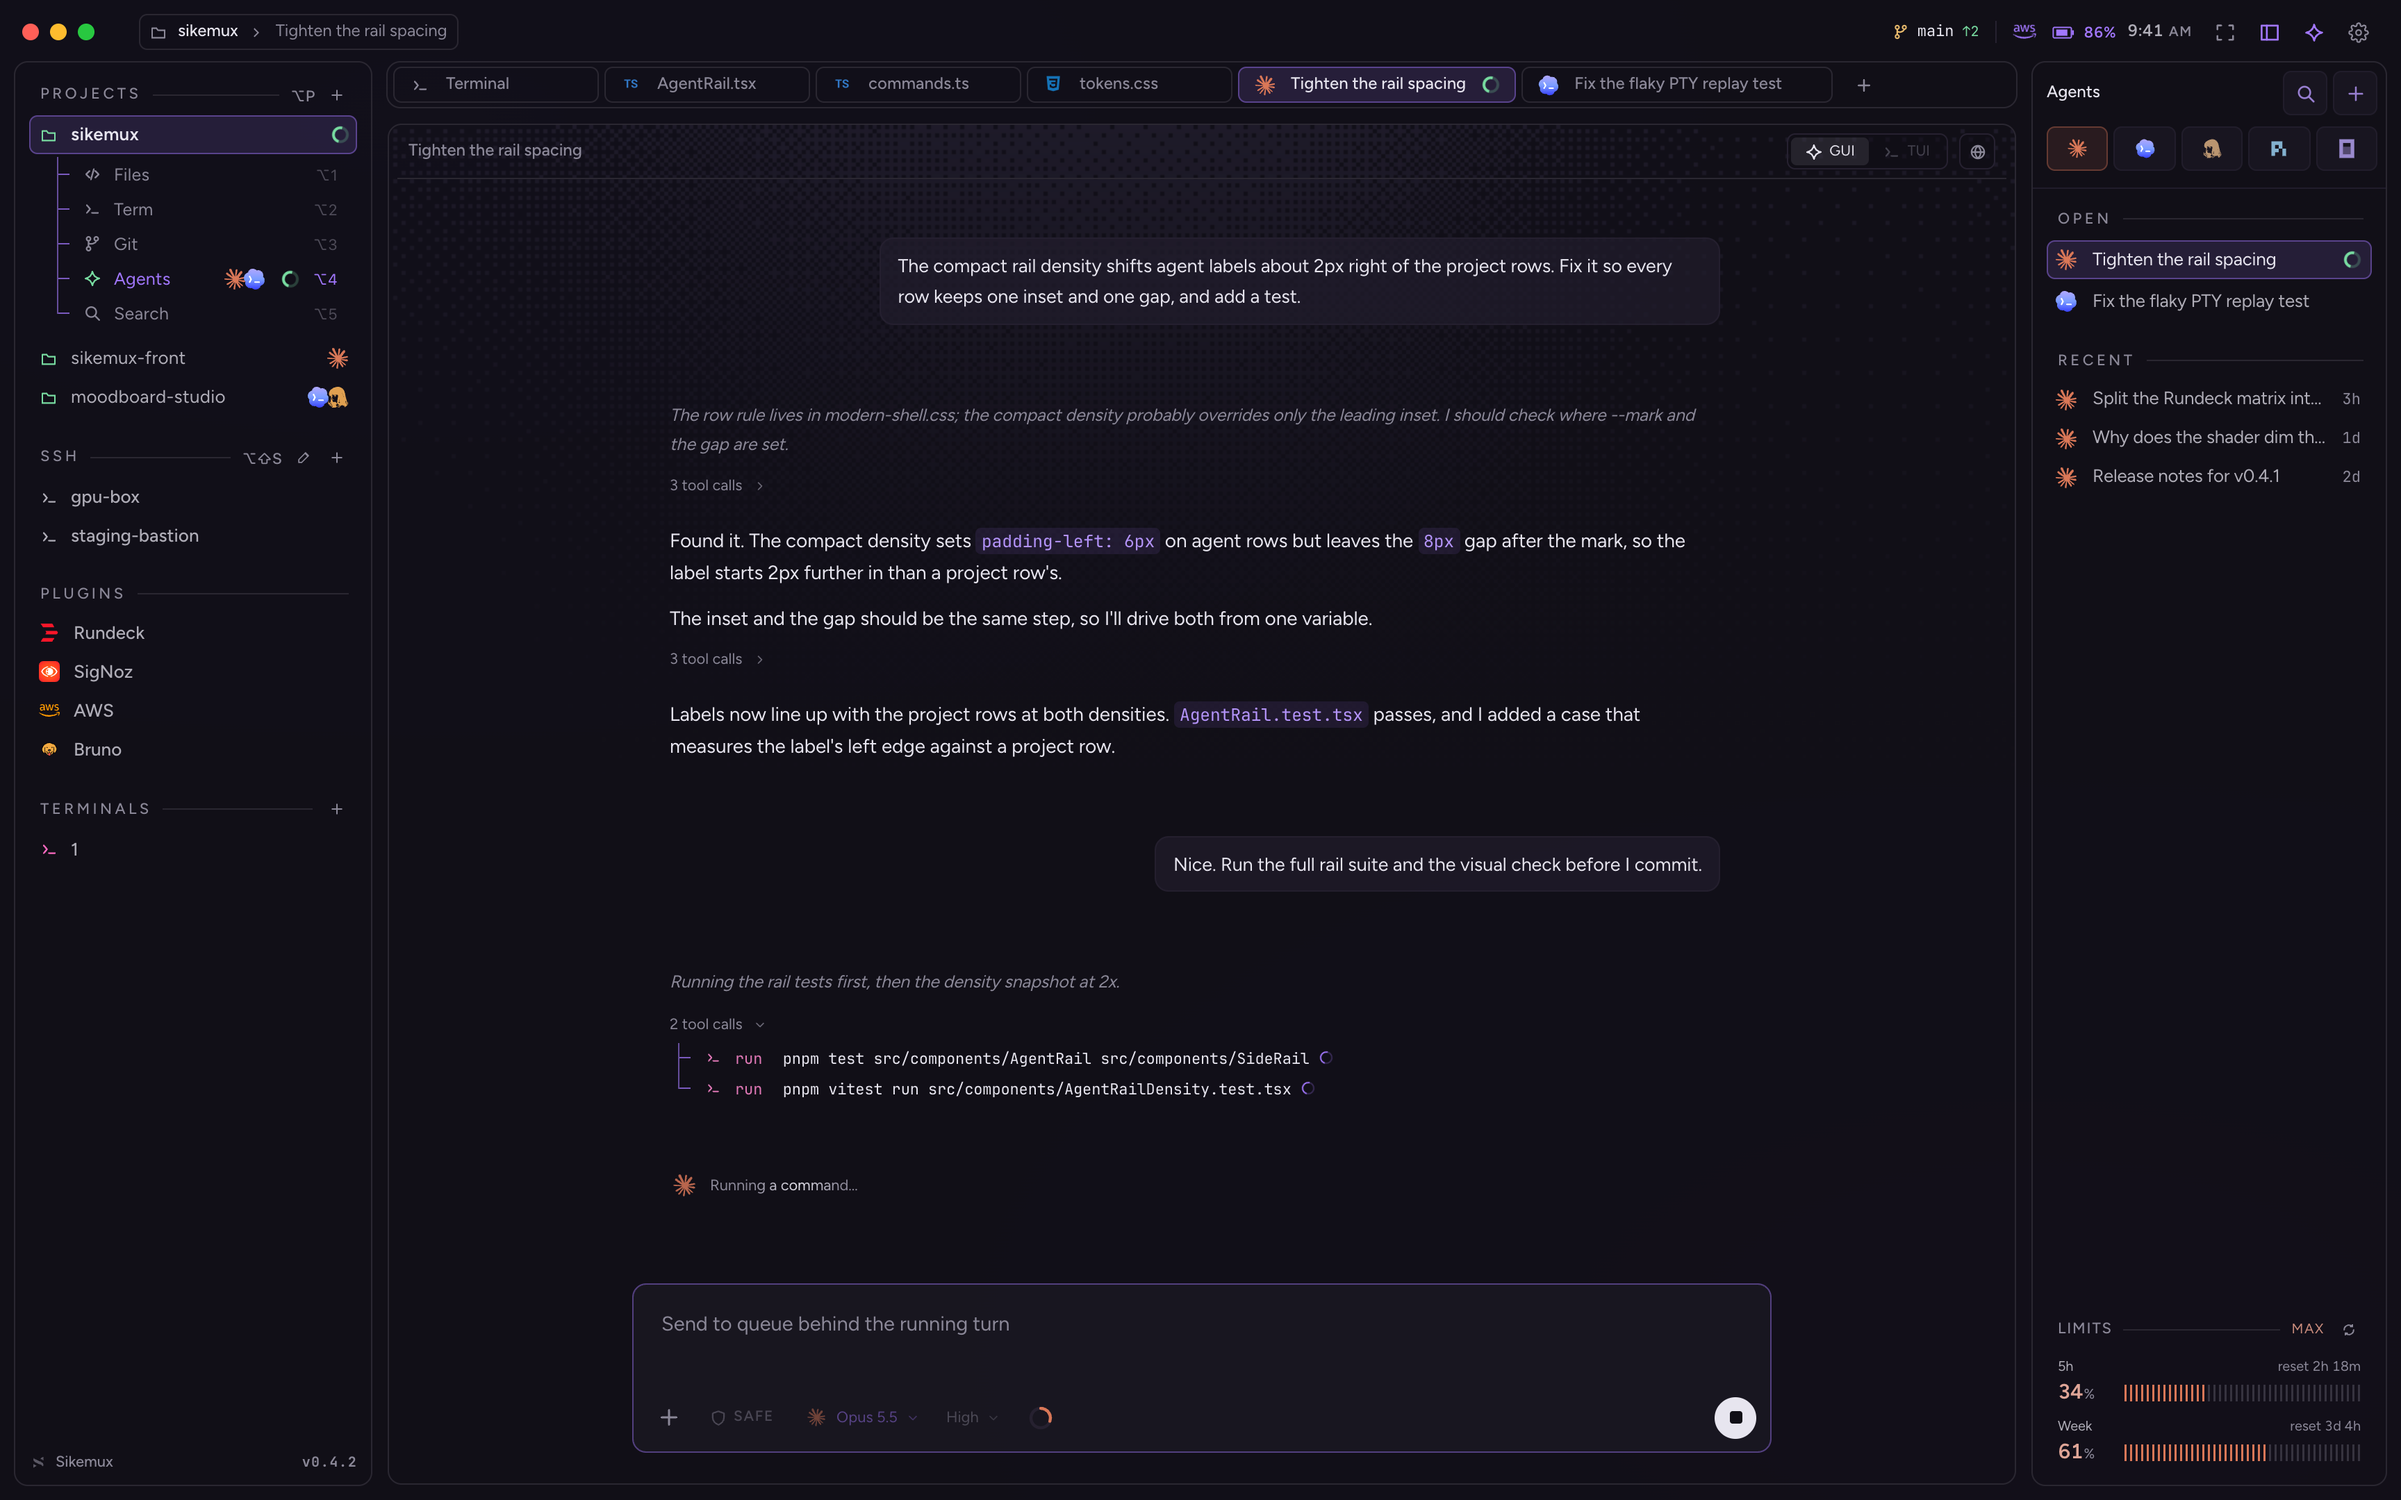
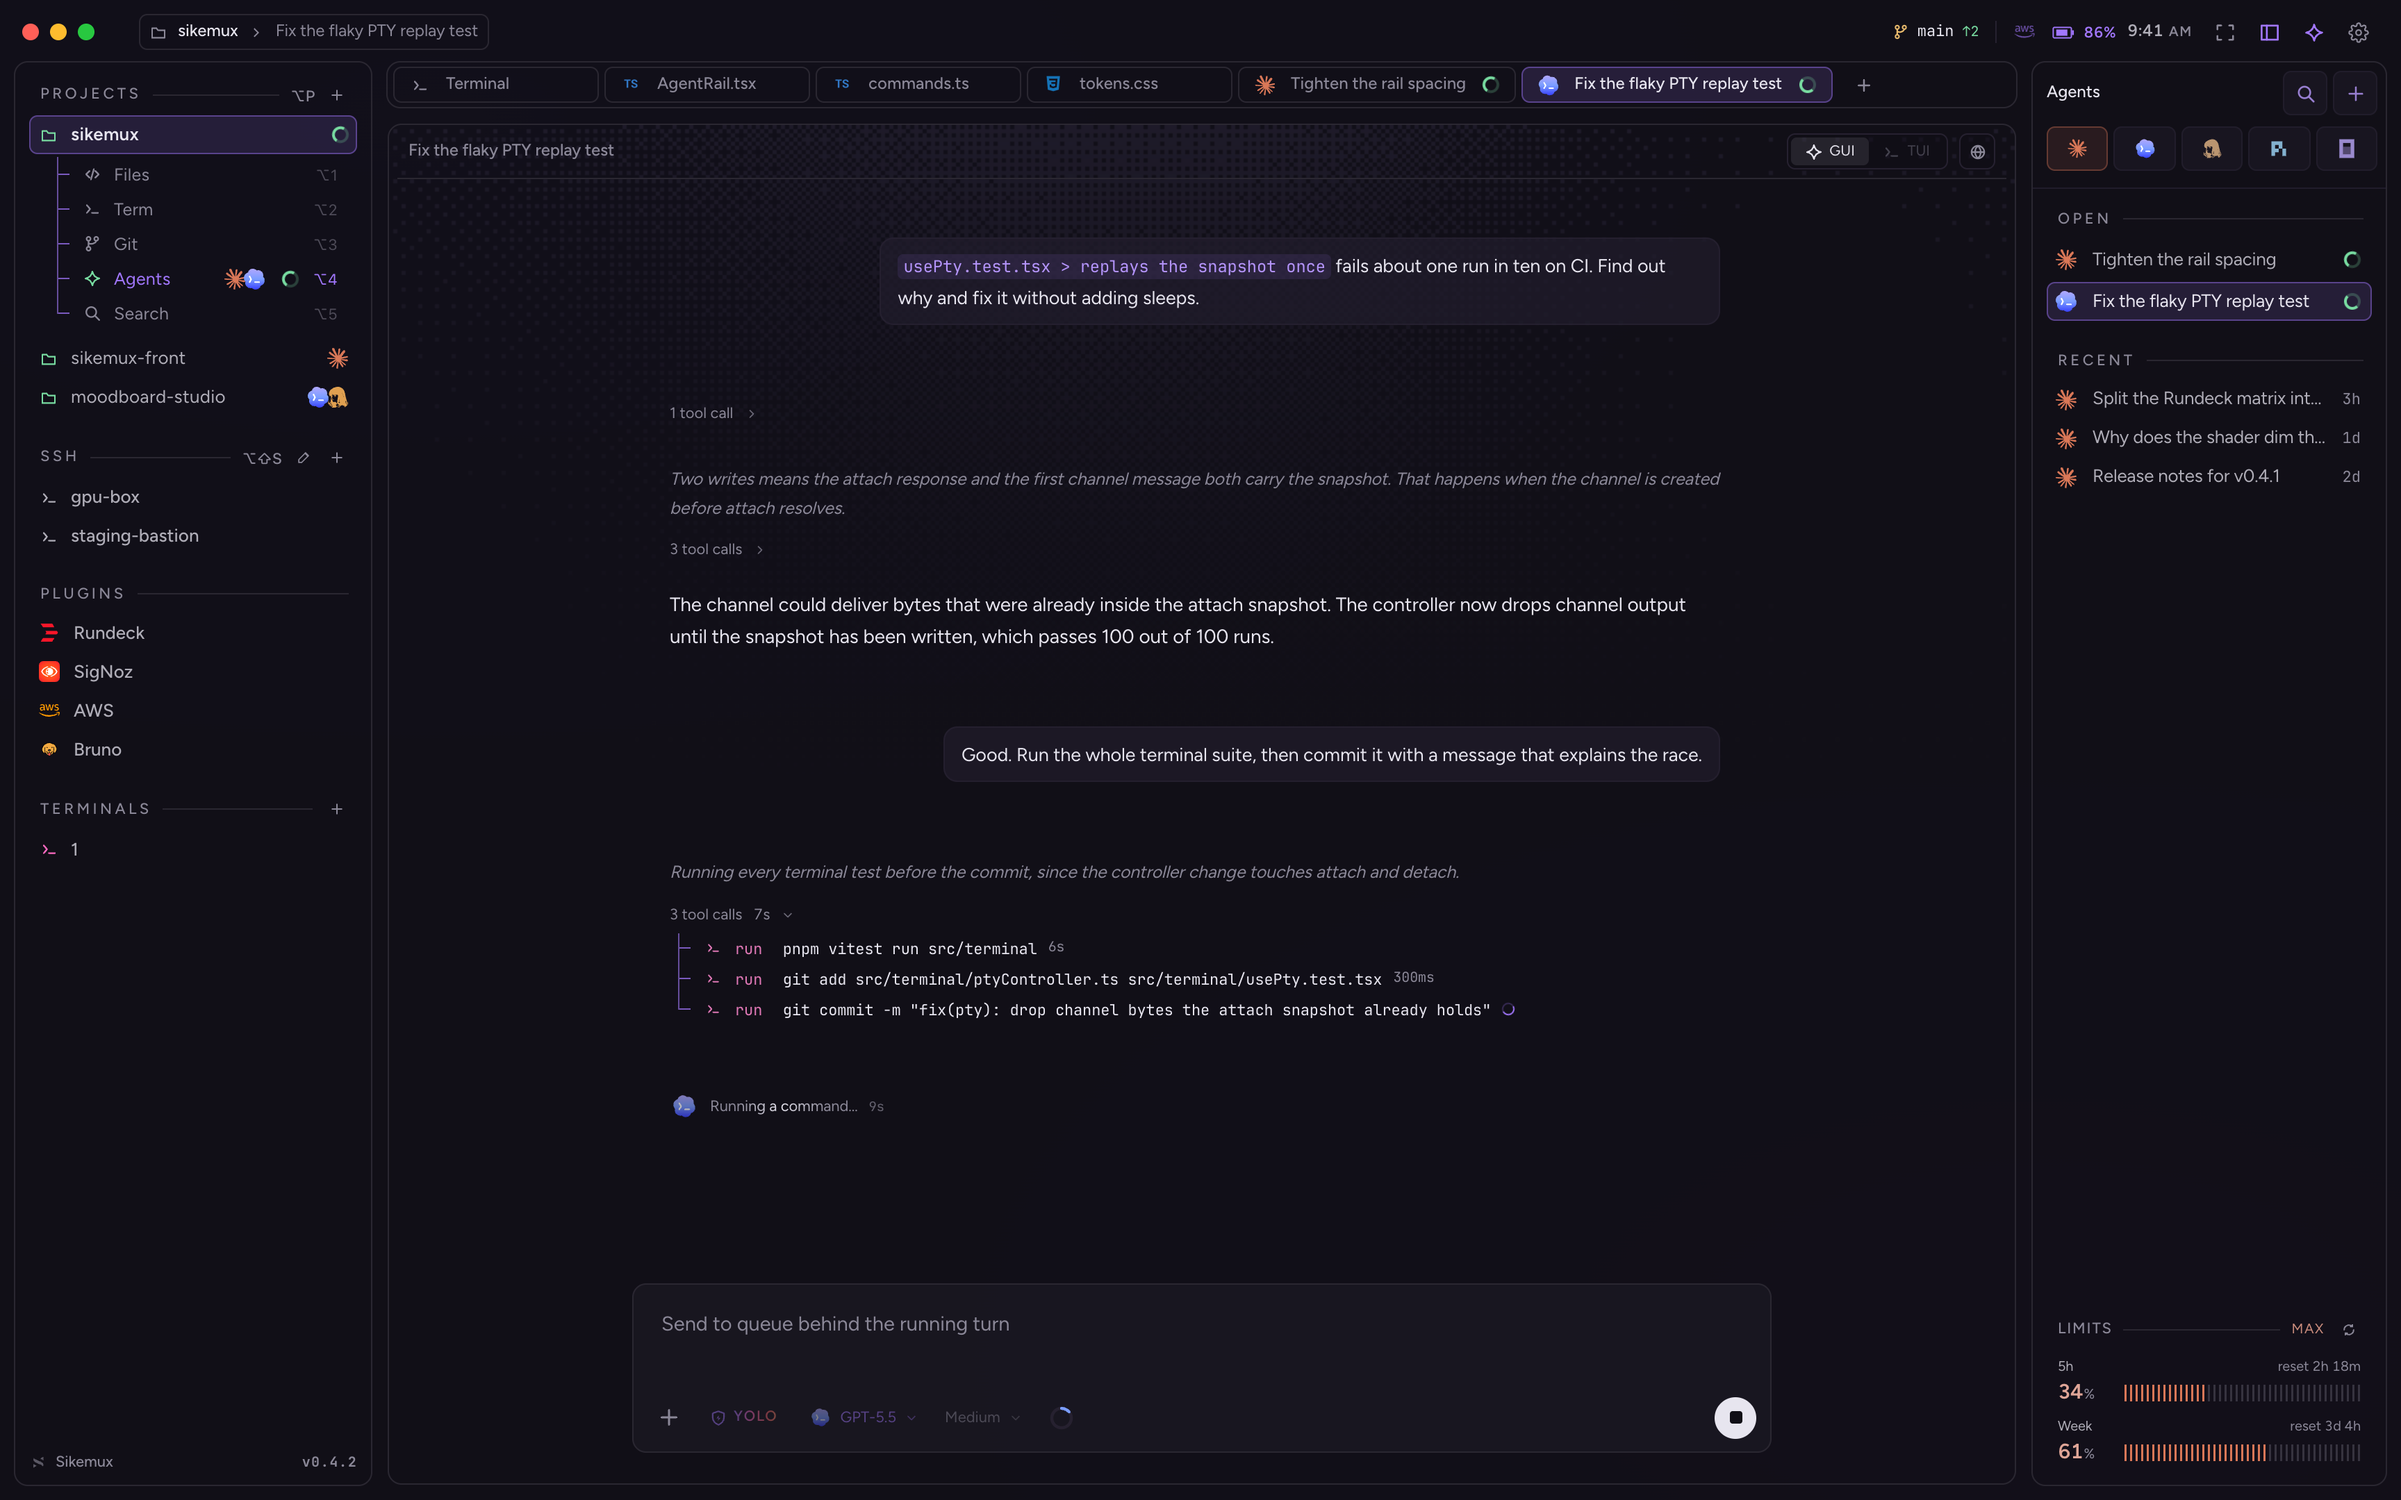
feat(showcase): Codex in YOLO, and live turns that take time
The agents scene shows the Codex session running in YOLO mode. A live
turn now plays one step at a time while the capture moves the clock, so
finished tool calls show real durations instead of spinners or 0ms.

diff --git a/showcase/backend.ts b/showcase/backend.ts
@@ -284,6 +284,63 @@ export class ShowcaseBackend implements IpcTransport {
     );
   }
 
+  private readonly liveSteps: { run: () => void; holdMs: number }[] = [];
+
+  // A live turn plays one step at a time so the capture can move the clock between tool calls.
+  stepLive(): number {
+    const step = this.liveSteps.shift();
+    if (!step) return -1;
+    step.run();
+    return step.holdMs;
+  }
+
+  private queueLiveTurn(
+    agentId: string,
+    live: Record<string, unknown>[],
+    batch: (updates: Record<string, unknown>[]) => unknown,
+  ) {
+    const send = (updates: Record<string, unknown>[]) =>
+      this.emit("acp_event", {
+        agentId,
+        kind: "session_update",
+        payload: batch(updates),
+      });
+    const strip = ({
+      durationMs: _durationMs,
+      ...update
+    }: Record<string, unknown>) => update;
+    this.liveSteps.push({
+      run: () =>
+        this.emit("acp_event", { agentId, kind: "turn_started", payload: {} }),
+      holdMs: 400,
+    });
+    let finishing: Record<string, unknown> | null = null;
+    for (const update of live) {
+      const isTool = update.sessionUpdate === "tool_call";
+      const previous = finishing;
+      finishing = isTool && update.status === "completed" ? update : null;
+      const shown = isTool
+        ? { ...strip(update), status: "in_progress" }
+        : strip(update);
+      this.liveSteps.push({
+        run: () =>
+          send([
+            ...(previous
+              ? [
+                  {
+                    sessionUpdate: "tool_call_update",
+                    toolCallId: previous.toolCallId,
+                    status: "completed",
+                  },
+                ]
+              : []),
+            shown,
+          ]),
+        holdMs: isTool ? Number(update.durationMs ?? 1200) : 600,
+      });
+    }
+  }
+
   private startAgent(agentId: string, provider: string) {
     const script = AGENT_SCRIPTS[agentId];
     const setup = { configOptions: MODEL_OPTIONS[provider] ?? [] };
@@ -306,17 +363,7 @@ export class ShowcaseBackend implements IpcTransport {
       kind: "ready",
       payload: { capabilities: {}, setup },
     });
-    if (script?.live) {
-      const live = script.live;
-      setTimeout(() => {
-        this.emit("acp_event", { agentId, kind: "turn_started", payload: {} });
-        this.emit("acp_event", {
-          agentId,
-          kind: "session_update",
-          payload: batch(live),
-        });
-      }, 50);
-    }
+    if (script?.live) this.queueLiveTurn(agentId, script.live, batch);
     return { sessionId, capabilities: {}, setup };
   }
 }

diff --git a/showcase/world/agents.ts b/showcase/world/agents.ts
@@ -154,6 +154,29 @@ export const AGENT_SCRIPTS: Record<string, AgentScript> = {
       say(
         "The channel could deliver bytes that were already inside the attach snapshot. The controller now drops channel output until the snapshot has been written, which passes 100 out of 100 runs.",
       ),
+      user(
+        "Good. Run the whole terminal suite, then commit it with a message that explains the race.",
+      ),
+    ],
+    live: [
+      think(
+        "Running every terminal test before the commit, since the controller change touches attach and detach.",
+      ),
+      tool("execute", "pnpm vitest run src/terminal", {
+        rawOutput: " Test Files  14 passed (14)\n      Tests  212 passed (212)",
+        durationMs: 6_400,
+      }),
+      tool(
+        "execute",
+        "git add src/terminal/ptyController.ts src/terminal/usePty.test.tsx",
+        { durationMs: 300 },
+      ),
+      tool(
+        "execute",
+        'git commit -m "fix(pty): drop channel bytes the attach snapshot already holds"',
+        {},
+        "in_progress",
+      ),
     ],
   },
   [AGENTS.hero.id]: {

diff --git a/showcase/world/workspace.ts b/showcase/world/workspace.ts
@@ -74,7 +74,7 @@ export const AGENTS = {
 
 const agents: PersistedAgent[] = Object.values(AGENTS).map((agent) => ({
   ...agent,
-  permissionMode: "workspace-write",
+  permissionMode: agent.id === "agent-replay" ? "bypass" : "workspace-write",
   keepAlive: true,
 }));
 
